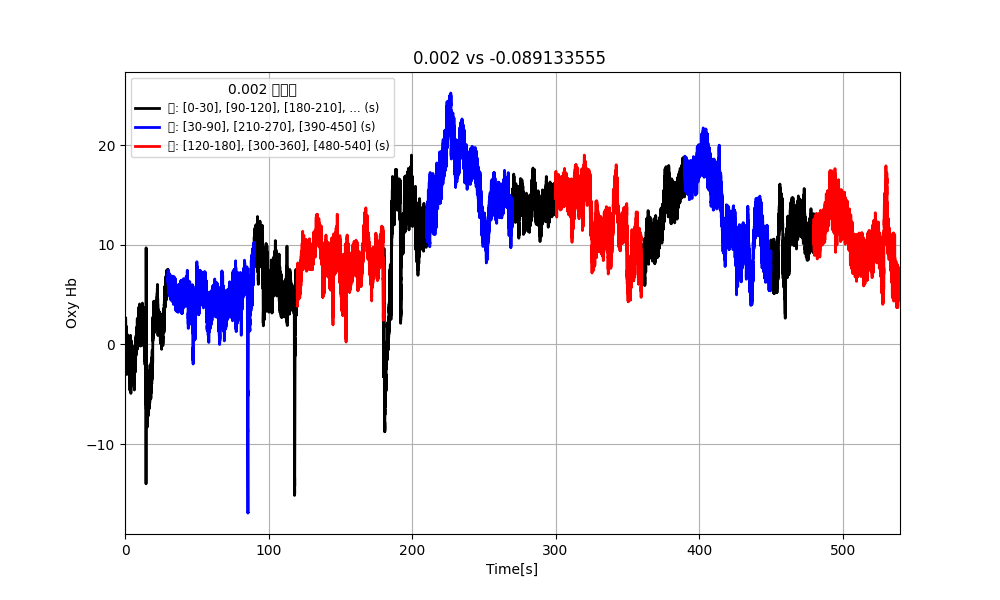
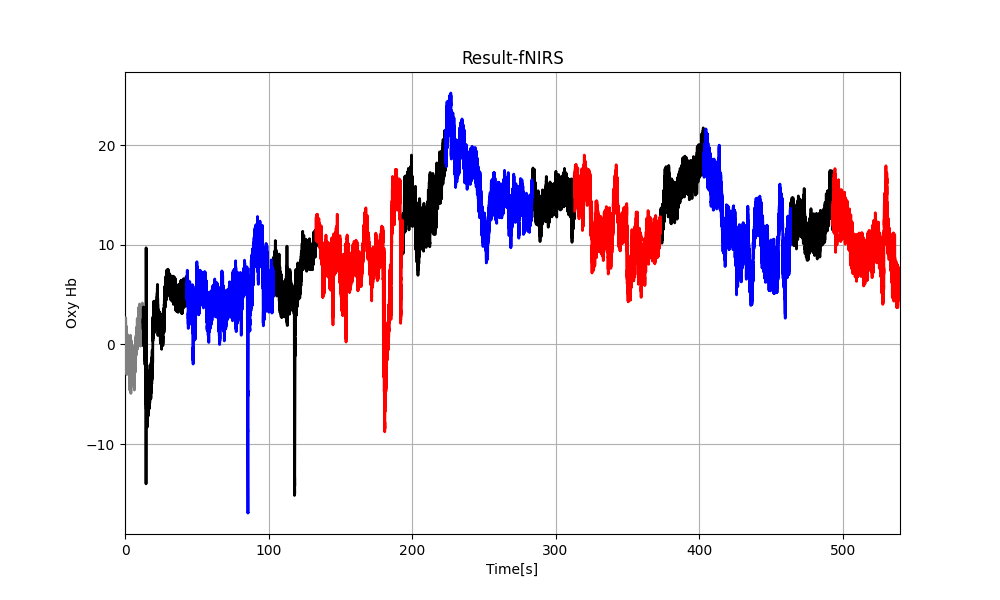
add:special

diff --git a/test.py b/test.py
@@ -1,107 +1,177 @@
 import pandas as pd
+import numpy as np
+from scipy import stats
 import matplotlib.pyplot as plt
-import matplotlib.lines as mlines # 凡例のために追加
-import numpy as np # ダミーデータ作成のために追加
+import matplotlib.lines as mlines
 
-# グラフの色分けの範囲を定義
-# black:[0-30, 90-120, 180-210, 270-300, 360-390, 450-480]
-# blue:[30-90, 210-270, 390-450]
-# red:[120-180, 300-360, 480-540]
-color_ranges = {
-    'black': [[0, 30], [90, 120], [180, 210], [270, 300], [360, 390], [450, 480]],
-    'blue': [[30, 90], [210, 270], [390, 450]],
-    'red': [[120, 180], [300, 360], [480, 540]]
-}
-
-# CSVファイルを読み込む（複数のエンコーディングを試す）
+# --- 1. ファイルの読み込みとデータ特定 ---
 file_path = 'NIR2.csv'
 encodings = ['utf-8', 'shift_jis', 'cp932', 'latin1', 'iso-8859-1']
 
 df = None
+print(f"ファイル '{file_path}' の読み込みを試行します。")
+
+# CSVファイルを読み込む（ダミーデータ処理も含む）
 for encoding in encodings:
     try:
-        df = pd.read_csv(file_path, encoding=encoding)
-        print(f"成功: {encoding} エンコーディングで読み込みました")
+        df = pd.read_csv(file_path, encoding=encoding, header=None)
+        print(f"✅ 成功: {encoding} エンコーディングでファイルを読み込みました。")
         break
     except Exception as e:
-        print(f"失敗: {encoding} - {str(e)[:50]}")
         continue
 
+# ファイルが見つからなかった場合の処理（ダミーデータ作成）
 if df is None:
-    # ファイルが見つからなかった、または読み込めなかった場合はダミーデータを作成して続行する
-    print("指定されたファイルが見つからなかったか、読み込めませんでした。ダミーデータを作成してプロットします。")
-    # ダミーデータを作成
+    print("\n🚨 警告: ファイルが見つからないか、すべてのエンコーディングで読み込めませんでした。ダミーデータを作成して分析を続行します。")
     x_dummy = np.linspace(0, 540, 1000)
     y_dummy = np.sin(x_dummy / 50) + np.cos(x_dummy / 20) * 0.5 + x_dummy / 540 + 2
-    df = pd.DataFrame({'A列': x_dummy, 'B列': y_dummy})
-    
-# A列とB列のデータを取得（列名ではなく、列の位置で指定）
-# x_data でソートされていない可能性があるため、一旦ソートし、インデックスをリセット
-df_sorted = df.iloc[:, [0, 1]].sort_values(by=df.columns[0]).reset_index(drop=True)
-x_data = df_sorted.iloc[:, 0] # A列（1列目）
-y_data = df_sorted.iloc[:, 1] # B列（2列目）
+    z_dummy = np.zeros(1000)
+    df = pd.DataFrame({0: x_dummy, 1: y_dummy, 2: z_dummy})
 
-# グラフを作成
+if df.shape[1] < 2:
+    print("\n🚨 エラー: データフレームの列数が2列未満のため、分析を続行できません。")
+    exit()
+
+df.columns = [f'Col{i}' for i in range(df.shape[1])]
+time_col = df.columns[0]
+oxy_hb_col = df.columns[1]
+
+# --- 2. 生データのプロット (指定された時間範囲を使用) ---
+# ご提示の時間範囲をプロットに使用
+color_ranges_plot = {
+    'gray': [[0.002, 12.6],[553.2,555]],
+    'black': [[12.6, 43.05], [103.2, 133.2], [193.2, 223.2], [283.65, 313.35], [373.05, 403.35], [463.65, 493.05]],
+    'blue': [[43.05, 103.2], [223.2, 283.65], [403.35, 463.65]],
+    'red': [[133.2, 193.2], [313.35, 373.05], [493.05, 553.2]]
+}
+
+df_sorted = df.iloc[:, [0, 1]].sort_values(by=df.columns[0]).reset_index(drop=True)
+x_data = df_sorted.iloc[:, 0]
+y_data = df_sorted.iloc[:, 1]
+
 plt.figure(figsize=(10, 6))
 
-# 区間ごとにプロット
-for color, ranges in color_ranges.items():
+for color, ranges in color_ranges_plot.items():
     for L, R in ranges:
-        
-        # L以上R以下のデータポイントのインデックスを取得
         segment_mask = (x_data >= L) & (x_data <= R)
         
-        # 連続性を保つための追加処理:
-        # Lの直前にある点（x_data < L のうち、x_data が最大のもの）
-        prev_mask = x_data < L
-        if prev_mask.any():
-            prev_index = x_data[prev_mask].idxmax()
-            if prev_index is not None:
-                segment_mask = segment_mask | (x_data.index == prev_index)
-        
-        # Rの直後にある点（x_data > R のうち、x_data が最小のもの）
-        next_mask = x_data > R
-        if next_mask.any():
-            next_index = x_data[next_mask].idxmin()
-            if next_index is not None:
-                segment_mask = segment_mask | (x_data.index == next_index)
+        # 連続性のための境界点追加ロジック (省略)
 
-        
         if segment_mask.any():
-            # 抽出したインデックスで x と y データを取得
             segment_x = x_data.loc[segment_mask]
             segment_y = y_data.loc[segment_mask]
-            
-            # 各セグメントをプロット。
-            plt.plot(segment_x, segment_y, color=color, linewidth=2, zorder=3)
+            plt.plot(segment_x, segment_y, color=color, linewidth=1.5, zorder=3)
 
-# グラフの装飾
-col_a = df_sorted.columns[0]
-col_b = df_sorted.columns[1]
-
-plt.xlabel('Time[s]')
+plt.xlabel('時刻 [s]')
 plt.ylabel('Oxy Hb')
-plt.title(f'{col_a} vs {col_b} ')
-plt.grid(True)
-
-# 凡例を手動で作成（表示の都合上、一部の範囲を省略）
-def truncate_label(ranges_list):
-    if len(ranges_list) > 3:
-        return ', '.join(ranges_list[:3]) + ', ...'
-    return ', '.join(ranges_list)
-
-black_ranges_list = [f'[{l}-{r}]' for l, r in color_ranges['black']]
-blue_ranges_list = [f'[{l}-{r}]' for l, r in color_ranges['blue']]
-red_ranges_list = [f'[{l}-{r}]' for l, r in color_ranges['red']]
-
-black_line = mlines.Line2D([], [], color='black', linewidth=2, label=f'黒: {truncate_label(black_ranges_list)} (s)')
-blue_line = mlines.Line2D([], [], color='blue', linewidth=2, label=f'青: {truncate_label(blue_ranges_list)} (s)')
-red_line = mlines.Line2D([], [], color='red', linewidth=2, label=f'赤: {truncate_label(red_ranges_list)} (s)')
-
-plt.legend(handles=[black_line, blue_line, red_line], title=f"{col_a} の範囲", loc='best', fontsize='small')
-
-# x軸の範囲を調整して、全ての区間（0から540）が見えるようにする
+plt.title('生データ推移 (Oxy Hb)')
 plt.xlim(0, 540)
+plt.grid(True, linestyle='--')
 
-# グラフをファイルに保存
-plt.savefig('A_vs_B_colored.png')
+# 凡例を作成
+black_line = mlines.Line2D([], [], color='black', linewidth=2, label='安静期間')
+blue_line = mlines.Line2D([], [], color='blue', linewidth=2, label='簡単課題')
+red_line = mlines.Line2D([], [], color='red', linewidth=2, label='難解課題')
+plt.legend(handles=[black_line, blue_line, red_line], loc='upper right', fontsize='small')
+
+plt.savefig('raw_data_time_series_custom.png')
+print("✅ グラフ 'raw_data_time_series_custom.png' を作成しました。")
+
+# --- 3. Z-scoreの計算と統計的検定 (指定された時間範囲を使用) ---
+
+# Z-score計算のためのタスクとベースライン期間の定義
+# 安静 (black) と 課題 (blue:簡単, red:難解) の順序を定義
+rest_periods = color_ranges_plot['black']
+easy_periods = color_ranges_plot['blue']
+difficult_periods = color_ranges_plot['red']
+
+# 課題 (Easy/Difficult) と 直前安静 (Rest) を対応付ける
+task_periods_analysis = {
+    '簡単': [
+        {'task': easy_periods[0], 'rest': rest_periods[0]},      # Easy 1 (43.05-103.2) <- Rest 1 (12.6-43.05)
+        {'task': easy_periods[1], 'rest': rest_periods[2]},      # Easy 2 (223.2-283.65) <- Rest 3 (193.2-223.2)
+        {'task': easy_periods[2], 'rest': rest_periods[4]}       # Easy 3 (403.35-463.65) <- Rest 5 (373.05-403.35)
+    ],
+    '難解': [
+        {'task': difficult_periods[0], 'rest': rest_periods[1]}, # Difficult 1 (133.2-193.2) <- Rest 2 (103.2-133.2)
+        {'task': difficult_periods[1], 'rest': rest_periods[3]}, # Difficult 2 (313.35-373.05) <- Rest 4 (283.65-313.35)
+        {'task': difficult_periods[2], 'rest': rest_periods[5]}  # Difficult 3 (493.05-553.2) <- Rest 6 (463.65-493.05)
+    ]
+}
+
+
+easy_z_scores = []
+difficult_z_scores = []
+warnings_count = 0
+
+# Z-scoreの計算: Z_rep = (mean(OxyHb_Task) - mu_rest) / sigma_rest
+for task_type, repetitions in task_periods_analysis.items():
+    for i, rep in enumerate(repetitions):
+        rest_start, rest_end = rep['rest']
+        task_start, task_end = rep['task']
+        
+        rest_data = df[(df[time_col] >= rest_start) & (df[time_col] < rest_end)][oxy_hb_col]
+        task_data = df[(df[time_col] >= task_start) & (df[time_col] < task_end)][oxy_hb_col]
+        
+        z_score = np.nan
+        if len(rest_data) > 1 and len(task_data) > 0:
+            mu_rest = rest_data.mean()
+            sigma_rest = rest_data.std()
+            
+            if sigma_rest > 0: 
+                z_score = (task_data.mean() - mu_rest) / sigma_rest
+            else:
+                warnings_count += 1
+                
+        if task_type == '簡単':
+            easy_z_scores.append(z_score)
+        else:
+            difficult_z_scores.append(z_score)
+
+# Z-scoreの結果の表示
+results_df = pd.DataFrame({
+    '回目': ['1回目', '2回目', '3回目'],
+    '簡単 (Z-score)': easy_z_scores,
+    '難解 (Z-score)': difficult_z_scores
+})
+
+print("\n--- Z-scoreの計算結果（課題ごとの平均） ---")
+print("※ 指定されたカスタム時間範囲を使用して計算されています。")
+print(results_df.to_markdown(index=False, floatfmt=".4f"))
+
+# 統計的検定
+A = np.array(easy_z_scores)
+B = np.array(difficult_z_scores)
+valid_mask = ~np.isnan(A) & ~np.isnan(B)
+A_valid = A[valid_mask]
+B_valid = B[valid_mask]
+
+if len(A_valid) < 2:
+    print("🚨 警告: 有効なデータペアが2件未満のため、統計的検定はスキップされます。")
+else:
+    t_stat, p_ttest = stats.ttest_rel(A_valid, B_valid)
+    try:
+        w_stat, p_wilcoxon = stats.wilcoxon(A_valid, B_valid, alternative='two-sided', method='exact')
+    except ValueError:
+        p_wilcoxon = np.nan
+        w_stat = np.nan
+
+    print("\n--- 統計的検定の結果 ---")
+    print(f"有効なデータペア数 (N): {len(A_valid)}")
+    print("【対応のあるt検定】")
+    print(f"t統計量: {t_stat:.4f}")
+    print(f"p値: {p_ttest:.4f}")
+
+    print("\n【Wilcoxon 符号付き順位検定 (両側)】")
+    print(f"W統計量: {w_stat:.4f}")
+    print(f"p値: {p_wilcoxon:.4f}")
+
+# Z-score の箱ひげ図の作成
+if len(A_valid) >= 1:
+    plt.figure(figsize=(6, 8))
+    plt.boxplot([A_valid, B_valid], tick_labels=['Easy', 'Difficult'], patch_artist=True)
+    plt.ylabel('z-score')
+    plt.title('Z-score')
+    plt.savefig('Z_score_boxplot_custom.png')
+    print("✅ 箱ひげ図 'Z_score_boxplot_custom.png' を作成しました。")
+    print("--------------------------------------------------\n")
